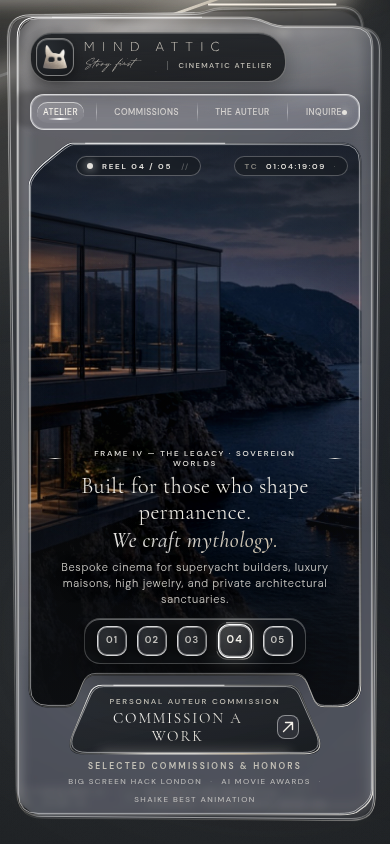
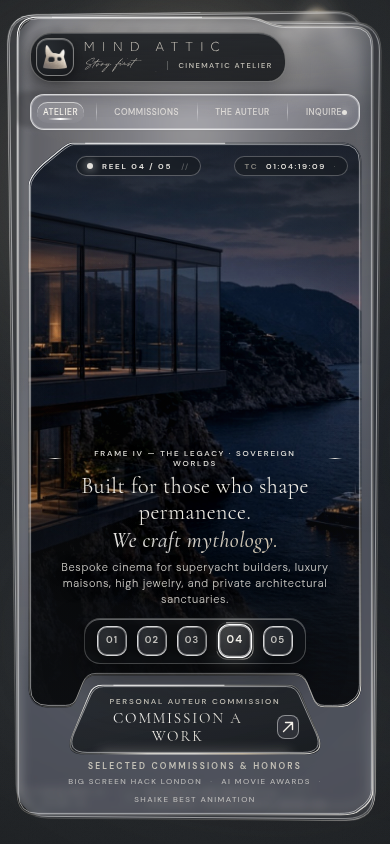
Replace the top-right light rods with a fading caustic arc.
The straight tubes and the rear-glass step that climbed above the frame are gone. Layers 1 and 2 are rounded rectangles, and a semicircular champagne arc crests behind the navigation terrace.

diff --git a/index.html b/index.html
@@ -71,6 +71,14 @@
         <stop offset="80%" stop-color="#E4E2DD" stop-opacity="0.75" />
         <stop offset="100%" stop-color="#C5C2B8" stop-opacity="0" />
       </linearGradient>
+      <!-- Top-right crest core: aligned to the arc span so both tips dissolve -->
+      <linearGradient id="champagne-core-grad" gradientUnits="userSpaceOnUse" x1="1102" y1="180" x2="1412" y2="180">
+        <stop offset="0%" stop-color="#F4F1EA" stop-opacity="0" />
+        <stop offset="18%" stop-color="#F4F1EA" stop-opacity="0.92" />
+        <stop offset="50%" stop-color="#F4F1EA" stop-opacity="0.96" />
+        <stop offset="82%" stop-color="#F4F1EA" stop-opacity="0.92" />
+        <stop offset="100%" stop-color="#F4F1EA" stop-opacity="0" />
+      </linearGradient>
 
       <!-- Vector Creature Symbol (Asymmetry Preserved as Drawn) -->
       <symbol id="creature-of-the-attic" viewBox="0 0 400 417">
@@ -116,11 +124,9 @@
            REFRACTIVE LIGHT TUBES & ARCS BEHIND THE GLASS STACK (Like Ref 2)
            ================================================================= -->
       <div class="light-emitter-layer" aria-hidden="true">
-        <!-- Top-Right Warm Champagne-Platinum Light Tube -->
-        <div class="light-tube light-tube--top-bar"></div>
-        <!-- Diagonal Refractive Light Streak cutting behind the top-right glass terrace -->
-        <div class="light-tube light-tube--diagonal-streak"></div>
-        <!-- Left & Right Glowing Semi-Circular Caustic Arcs (Ref 2 homage) -->
+        <!-- Soft circular halo behind the top-right caustic arc -->
+        <div class="caustic-halo caustic-halo--top-right"></div>
+        <!-- Glowing semi-circular caustic arcs (left edge, right rail, top-right terrace) -->
         <svg class="light-arcs-svg" viewBox="0 0 1600 940" preserveAspectRatio="none">
           <!-- Left luminous platinum semi-circular arc bleeding through frosted left edge -->
           <path d="M 55 340 A 190 190 0 0 0 55 710" fill="none" stroke="url(#champagne-arc-grad)" stroke-width="5.5" stroke-linecap="round" class="caustic-arc caustic-arc--left" />
@@ -128,9 +134,10 @@
           <!-- Right luminous platinum arc behind the 5-button switcher rail -->
           <path d="M 1538 220 A 155 155 0 0 1 1538 510" fill="none" stroke="url(#champagne-arc-grad)" stroke-width="5" stroke-linecap="round" class="caustic-arc caustic-arc--right" />
           <path d="M 1538 220 A 155 155 0 0 1 1538 510" fill="none" stroke="#F4F1EA" stroke-width="1.8" stroke-linecap="round" opacity="0.88" />
-          <!-- Top-right horizontal light bar behind Layer 1 & Layer 2 -->
-          <line x1="820" y1="16" x2="1360" y2="16" stroke="url(#champagne-arc-grad)" stroke-width="6" stroke-linecap="round" class="caustic-bar-glow" />
-          <line x1="850" y1="16" x2="1330" y2="16" stroke="#FFFDF9" stroke-width="2.2" stroke-linecap="round" />
+          <!-- Top-right crest: semicircle behind the nav terrace. The shared gradient runs
+               along this arc's horizontal span and fades to opacity 0 at both tips. -->
+          <path d="M 1102 180 A 155 155 0 0 1 1412 180" fill="none" stroke="url(#champagne-arc-grad)" stroke-width="5.5" stroke-linecap="round" class="caustic-arc caustic-arc--top" />
+          <path d="M 1102 180 A 155 155 0 0 1 1412 180" fill="none" stroke="url(#champagne-core-grad)" stroke-width="2" stroke-linecap="round" />
         </svg>
       </div>
 

diff --git a/assets/css/style.css b/assets/css/style.css
@@ -111,12 +111,11 @@ html, body {
 }
 
 .ambient-caustic--top-right {
-  width: 560px;
-  height: 220px;
-  top: 4%;
-  right: 11%;
-  background: linear-gradient(125deg, rgba(244, 241, 234, 0.14), rgba(223, 200, 162, 0.11), transparent);
-  transform: rotate(-16deg);
+  width: 460px;
+  height: 460px;
+  top: -4%;
+  right: 6%;
+  background: radial-gradient(circle, rgba(244, 241, 234, 0.20) 0%, rgba(223, 200, 162, 0.10) 42%, transparent 72%);
 }
 
 .ambient-caustic--bottom-left {
@@ -215,40 +214,21 @@ html, body {
   overflow: visible;
 }
 
-.caustic-arc,
-.caustic-bar-glow {
+.caustic-arc {
   filter: blur(4px) drop-shadow(0 0 14px rgba(244, 241, 234, 0.58)) drop-shadow(0 0 28px rgba(223, 200, 162, 0.36));
 }
 
-.light-tube {
+/* Circular champagne halo sitting behind the top-right caustic crest */
+.caustic-halo--top-right {
   position: absolute;
+  top: -28px;
+  right: 10%;
+  width: 340px;
+  height: 340px;
+  border-radius: 50%;
   pointer-events: none;
-  border-radius: 999px;
-}
-
-/* Glowing horizontal light bar behind top-right glass edge (like Attachment 2) */
-.light-tube--top-bar {
-  top: 2px;
-  right: 14%;
-  width: 440px;
-  height: 5px;
-  background: linear-gradient(90deg, transparent 0%, #E4E2DD 20%, #FFFDF9 50%, #DFC8A2 80%, transparent 100%);
-  box-shadow:
-    0 0 18px 3px rgba(244, 241, 234, 0.65),
-    0 0 42px 10px rgba(223, 200, 162, 0.34);
-}
-
-/* Subtle diagonal champagne-platinum light streak refracting through top-right glass (upgraded from Attachment 3) */
-.light-tube--diagonal-streak {
-  top: 38px;
-  right: 4%;
-  width: 520px;
-  height: 3px;
-  background: linear-gradient(90deg, transparent 0%, rgba(228, 226, 221, 0.35) 22%, rgba(255, 250, 240, 0.92) 54%, rgba(223, 200, 162, 0.45) 78%, transparent 100%);
-  transform: rotate(-19.5deg);
-  box-shadow:
-    0 0 22px 4px rgba(244, 241, 234, 0.45),
-    0 0 54px 12px rgba(223, 200, 162, 0.25);
+  background: radial-gradient(circle, rgba(255, 250, 240, 0.34) 0%, rgba(244, 241, 234, 0.16) 28%, rgba(223, 200, 162, 0.08) 52%, transparent 72%);
+  filter: blur(10px);
 }
 
 /* ==========================================================================

diff --git a/assets/js/app.js b/assets/js/app.js
@@ -439,18 +439,21 @@
     const vp = document.getElementById("cinema-viewport");
     const cta = document.getElementById("cta-command-button");
 
+    // Rear planes stay simple rounded rectangles. A negative stepDrop on
+    // layer 1 pushed the stroke above y = 0, so the clip chopped the fill
+    // and the rim floated across layer 2 in the top-right.
     const b1 = elementBox(l1);
     if (b1) {
-      const dOuter = buildChassisPath(b1.w, b1.h, 30, 0.5, 0.58, -8);
-      const dInset = buildChassisPath(b1.w, b1.h, 30, 2.5, 0.58, -8);
+      const dOuter = roundedRectPath(b1.w, b1.h, 30, 0.5);
+      const dInset = roundedRectPath(b1.w, b1.h, 30, 2.5);
       applyClip(l1, dOuter);
       renderDualRimSVG(document.getElementById("svg-layer-1"), dOuter, dInset, b1.w, b1.h, true);
     }
 
     const b2 = elementBox(l2);
     if (b2) {
-      const dOuter = buildChassisPath(b2.w, b2.h, 30, 0.5, 0.24, 8);
-      const dInset = buildChassisPath(b2.w, b2.h, 30, 2.5, 0.24, 8);
+      const dOuter = roundedRectPath(b2.w, b2.h, 30, 0.5);
+      const dInset = roundedRectPath(b2.w, b2.h, 30, 2.5);
       applyClip(l2, dOuter);
       renderDualRimSVG(document.getElementById("svg-layer-2"), dOuter, dInset, b2.w, b2.h, true);
     }
